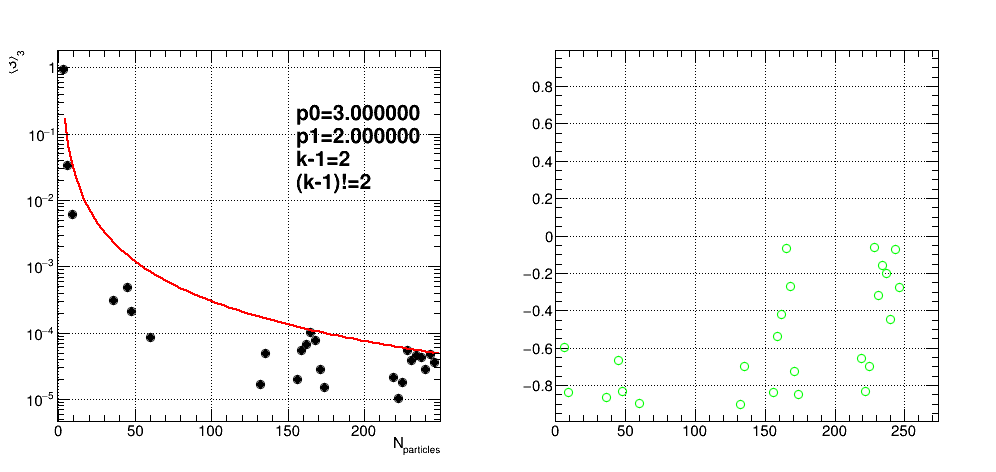
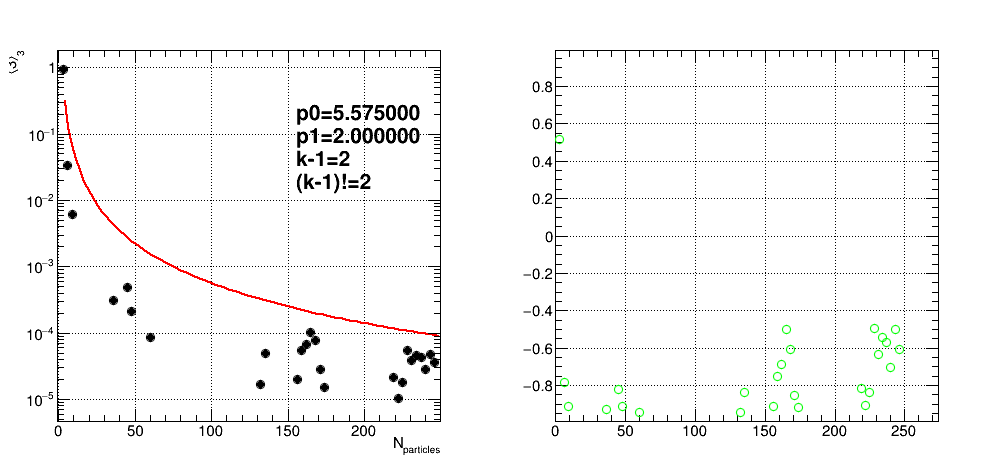
Added up to 14 p-correlators

diff --git a/RanGenX.C b/RanGenX.C
@@ -114,7 +114,7 @@ void get_corr(int nparticles, int ntuple, int harmonic, double space, int seed)
   // than 100 and adds 1 -- if more than 100, than the program stops
 
   //int stop = nparticles/ntuple;
-  //cout<<"Starting For loop over particles"<<endl;
+  cout<<"Starting For loop over particles"<<endl;
   for ( int i = 0; i < nparticles; ++i )
     {
       //double means an exact number, phi1 is the name of the double for particle 1.
@@ -134,39 +134,81 @@ void get_corr(int nparticles, int ntuple, int harmonic, double space, int seed)
       
       extra = angle.Uniform(-space,space);
       double phi3 = phi2 + increment + extra;
+      fix_ang (phi3);
       ang.push_back(phi3);
       if ( ntuple <= 3 ) continue;
 
       extra = angle.Uniform(-space,space);
       double phi4 = phi3 + increment + extra;
+      fix_ang (phi4);
       ang.push_back(phi4);
       if ( ntuple <= 4 ) continue;
 
       extra = angle.Uniform(-space,space);      
       double phi5 = phi4 + increment + extra;
+      fix_ang (phi5);
       ang.push_back(phi5);
       if ( ntuple <= 5 ) continue;
 
       extra = angle.Uniform(-space,space);
       double phi6 = phi5 + increment + extra;
+      fix_ang (phi6);
       ang.push_back(phi6);
       if ( ntuple <= 6 ) continue;
 
       extra = angle.Uniform(-space,space);
       double phi7 = phi6 + increment + extra;
+      fix_ang (phi7);
       ang.push_back(phi7);
       if ( ntuple <= 7 ) continue;
 
       extra = angle.Uniform(-space,space);
       double phi8 = phi7 + increment + extra;
+      fix_ang (phi8);
       ang.push_back(phi8);
       if ( ntuple <= 8 ) continue;
 
+      extra = angle.Uniform(-space,space);
+      double phi9 = phi8 + increment + extra;
+      fix_ang (phi9);
+      ang.push_back(phi9);
+      if ( ntuple <= 9 ) continue;
+      
+      extra = angle.Uniform(-space,space);
+      double phi10 = phi9 + increment + extra;
+      fix_ang (phi10);
+      ang.push_back(phi10);
+      if ( ntuple <= 10 ) continue;
+      
+      extra = angle.Uniform(-space,space);
+      double phi11 = phi10 + increment + extra;
+      fix_ang (phi11);
+      ang.push_back(phi11);
+      if ( ntuple <= 11 ) continue;
+      
+      extra = angle.Uniform(-space,space);
+      double phi12 = phi11 + increment + extra;
+      fix_ang (phi12);
+      ang.push_back(phi12);
+      if ( ntuple <= 12 ) continue;
+      
+      extra = angle.Uniform(-space,space);
+      double phi13 = phi12 + increment + extra;
+      fix_ang (phi13);
+      ang.push_back(phi13);
+      if ( ntuple <= 13 ) continue;
+      
+      extra = angle.Uniform(-space,space);
+      double phi14 = phi13 + increment + extra;
+      fix_ang (phi14);
+      ang.push_back(phi14);
+      if ( ntuple <= 14 ) continue;
+
 
     } // end of nparticles for loop
-  //cout<<"Done Generating Particles, doing Recursion"<<endl;
+  cout<<"Done Generating Particles, doing Recursion"<<endl;
   do_recursion(ang,harmonic);
-  //cout<<"Done with Recursion"<<endl;
+  cout<<"Done with Recursion"<<endl;
   
   return;
 
@@ -181,6 +223,7 @@ void fix_ang(double& ang)
 void do_recursion(vector<double>& ang, int harmonic)
 {
 
+  cout<<"Initializing Q vectors"<<endl;
   for(int h=0;h<maxHarmonic;h++)
     {
       for(int w=0;w<maxPower;w++)
@@ -190,13 +233,14 @@ void do_recursion(vector<double>& ang, int harmonic)
     } // end of loop over maxHarmonic
 
   int mult = ang.size();
-
+  cout<<"Getting Angles"<<endl;
   for ( int i = 0; i < mult; ++i )
     {
       //cout << ang[i] << " " ;
       for(int h=0;h<maxHarmonic;h++)
         {
           double phi = ang[i];
+	  cout<<"Calculating Q-vectors"<<endl;
           // do the summation for the Q-vectors
           for(int w=0;w<maxPower;w++)
             {
@@ -204,6 +248,7 @@ void do_recursion(vector<double>& ang, int harmonic)
             } // end of loop over powers
         } // end of loop over harmonics
     } // end of loop over ang vector
+  cout<<"Filling Histograms"<<endl;
 
   // --- from generic formulas ----------------------------------------------------------------------------
 
@@ -262,7 +307,7 @@ void do_recursion(vector<double>& ang, int harmonic)
   hmult_recursion[1][5]->Fill(mult,sevenRecursion.Im(),wSevenRecursion);
 
   //  8-p correlations
-  int harmonics_Eight_Num[8] = {harmonic,harmonic,harmonic,harmonic,-harmonic,-harmonic,-harmonic,-harmonic};
+  int harmonics_Eight_Num[8] = {harmonic,harmonic,harmonic,harmonic,-harmonic,-harmonic,-harmonic,-harmonic}; // harmonic*(1,1,1,1,-1,-1,-1,-1)
   int harmonics_Eight_Den[8] = {0,0,0,0,0,0,0,0};
   TComplex eightRecursion = Recursion(8,harmonics_Eight_Num)/Recursion(8,harmonics_Eight_Den).Re();
   //double spwEightRecursion = Recursion(8,harmonics_Eight_Den).Re();
@@ -270,13 +315,67 @@ void do_recursion(vector<double>& ang, int harmonic)
   hmult_recursion[0][6]->Fill(mult,eightRecursion.Re(),wEightRecursion);
   hmult_recursion[1][6]->Fill(mult,eightRecursion.Im(),wEightRecursion);
 
+  //  9-p correlations
+  int harmonics_Nine_Num[9] = {harmonic,harmonic,harmonic,harmonic,harmonic,-harmonic,-harmonic,-harmonic,-2*harmonic}; // harmonic*(1,1,1,1,1,-1,-1,-1,-2)
+  int harmonics_Nine_Den[9] = {0,0,0,0,0,0,0,0,0};
+  TComplex nineRecursion = Recursion(9,harmonics_Nine_Num)/Recursion(9,harmonics_Nine_Den).Re();
+  //double spwNineRecursion = Recursion(9,harmonics_Nine_Den).Re();
+  double wNineRecursion = 1.0;
+  hmult_recursion[0][7]->Fill(mult,nineRecursion.Re(),wNineRecursion);
+  hmult_recursion[1][7]->Fill(mult,nineRecursion.Im(),wNineRecursion);
+
+  //  10-p correlations
+  int harmonics_Ten_Num[10] = {harmonic,harmonic,harmonic,harmonic,harmonic,-harmonic,-harmonic,-harmonic,-harmonic,-harmonic}; // harmonic*(1,1,1,1,1,-1,-1,-1,-1,-1)
+  int harmonics_Ten_Den[10] = {0,0,0,0,0,0,0,0,0,0};
+  TComplex tenRecursion = Recursion(10,harmonics_Ten_Num)/Recursion(10,harmonics_Ten_Den).Re();
+  //double spwTenRecursion = Recursion(10,harmonics_Ten_Den).Re();
+  double wTenRecursion = 1.0;
+  hmult_recursion[0][8]->Fill(mult,tenRecursion.Re(),wTenRecursion);
+  hmult_recursion[1][8]->Fill(mult,tenRecursion.Im(),wTenRecursion);
+
+  //  11-p correlations
+  int harmonics_Eleven_Num[11] = {harmonic,harmonic,harmonic,harmonic,harmonic,harmonic,-harmonic,-harmonic,-harmonic,-harmonic,-2*harmonic}; // harmonic*(1,1,1,1,1,1,-1,-1,-1,-1,-2)
+  int harmonics_Eleven_Den[11] = {0,0,0,0,0,0,0,0,0,0,0};
+  TComplex elevenRecursion = Recursion(11,harmonics_Eleven_Num)/Recursion(11,harmonics_Eleven_Den).Re();
+  //double spwElevenRecursion = Recursion(11,harmonics_Eleven_Den).Re();
+  double wElevenRecursion = 1.0;
+  hmult_recursion[0][9]->Fill(mult,elevenRecursion.Re(),wElevenRecursion);
+  hmult_recursion[1][9]->Fill(mult,elevenRecursion.Im(),wElevenRecursion);
+
+  //  12-p correlations
+  int harmonics_Twelve_Num[12] = {harmonic,harmonic,harmonic,harmonic,harmonic,harmonic,-harmonic,-harmonic,-harmonic,-harmonic,-harmonic,-harmonic}; // harmonic*(1,1,1,1,1,1,-1,-1,-1,-1,-1,-1)
+  int harmonics_Twelve_Den[12] = {0,0,0,0,0,0,0,0,0,0,0,0};
+  TComplex twelveRecursion = Recursion(12,harmonics_Twelve_Num)/Recursion(12,harmonics_Twelve_Den).Re();
+  //double spwTwelveRecursion = Recursion(12,harmonics_Twelve_Den).Re();
+  double wTwelveRecursion = 1.0;
+  hmult_recursion[0][10]->Fill(mult,twelveRecursion.Re(),wTwelveRecursion);
+  hmult_recursion[1][10]->Fill(mult,twelveRecursion.Im(),wTwelveRecursion);
+
+  //  13-p correlations
+  int harmonics_Thirteen_Num[13] = {harmonic,harmonic,harmonic,harmonic,harmonic,harmonic,harmonic,-harmonic,-harmonic,-harmonic,-harmonic,-harmonic,-2*harmonic}; // harmonic*(1,1,1,1,1,1,1,-1,-1,-1,-1,-1,-2)
+  int harmonics_Thirteen_Den[13] = {0,0,0,0,0,0,0,0,0,0,0,0,0};
+  TComplex thirteenRecursion = Recursion(13,harmonics_Thirteen_Num)/Recursion(13,harmonics_Thirteen_Den).Re();
+  //double spwThirteenRecursion = Recursion(13,harmonics_Thirteen_Den).Re();
+  double wThirteenRecursion = 1.0;
+  hmult_recursion[0][11]->Fill(mult,thirteenRecursion.Re(),wThirteenRecursion);
+  hmult_recursion[1][11]->Fill(mult,thirteenRecursion.Im(),wThirteenRecursion);
+
+  //  14-p correlations
+  int harmonics_Fourteen_Num[14] = {harmonic,harmonic,harmonic,harmonic,harmonic,harmonic,harmonic,-harmonic,-harmonic,-harmonic,-harmonic,-harmonic,-harmonic,-harmonic}; // harmonic*(1,1,1,1,1,1,1,-1,-1,-1,-1,-1,-1,-1)
+  int harmonics_Fourteen_Den[14] = {0,0,0,0,0,0,0,0,0,0,0,0,0,0};
+  TComplex fourteenRecursion = Recursion(14,harmonics_Fourteen_Num)/Recursion(14,harmonics_Fourteen_Den).Re();
+  //double spwFourteenRecursion = Recursion(14,harmonics_Fourteen_Den).Re();
+  double wFourteenRecursion = 1.0;
+  hmult_recursion[0][12]->Fill(mult,fourteenRecursion.Re(),wFourteenRecursion);
+  hmult_recursion[1][12]->Fill(mult,fourteenRecursion.Im(),wFourteenRecursion);
 
 
+  
   // ---------------------------------------------------------------------------------------
   // ---------------------------------------------------------------------------------------
   // ---------------------------------------------------------------------------------------
 
-
+  cout<<"Filling Double Harmonic Histograms"<<endl;
 
   int d_harmonic = 2*harmonic;
   
@@ -348,5 +447,5 @@ void do_recursion(vector<double>& ang, int harmonic)
   //cout << fourd_Recursion.Re() << endl;
   //cout << sixd_Recursion.Re() << endl;
   //cout << eightd_Recursion.Re() << endl;
-
+  cout<<"Finished do_recursion"<<endl;
 } // end do_recursion functions

diff --git a/do_rangenx.C b/do_rangenx.C
@@ -45,6 +45,12 @@ int main(int argc, char *argv[])
   execute(nevents,250,6,2,space,sequence,seed); // nevents, max 250 tracks, 6-p correlation, 2nd harmonic, sequence number, seed
   execute(nevents,250,7,2,space,sequence,seed); // nevents, max 250 tracks, 7-p correlation, 2nd harmonic, sequence number, seed
   execute(nevents,250,8,2,space,sequence,seed); // nevents, max 250 tracks, 8-p correlation, 2nd harmonic, sequence number, seed
+  execute(nevents,250,9,2,space,sequence,seed); // nevents, max 250 tracks, 9-p correlation, 2nd harmonic, sequence number, seed
+  execute(nevents,250,10,2,space,sequence,seed); // nevents, max 250 tracks, 10-p correlation, 2nd harmonic, sequence number, seed
+  execute(nevents,250,11,2,space,sequence,seed); // nevents, max 250 tracks, 11-p correlation, 2nd harmonic, sequence number, seed
+  execute(nevents,250,12,2,space,sequence,seed); // nevents, max 250 tracks, 12-p correlation, 2nd harmonic, sequence number, seed
+  execute(nevents,250,13,2,space,sequence,seed); // nevents, max 250 tracks, 13-p correlation, 2nd harmonic, sequence number, seed
+  execute(nevents,250,14,2,space,sequence,seed); // nevents, max 250 tracks, 14-p correlation, 2nd harmonic, sequence number, seed
 
   execute(nevents,250,2,3,space,sequence,seed); // nevents, max 250 tracks, 2-p correlation, 3rd harmonic, sequence number, seed
   execute(nevents,250,3,3,space,sequence,seed); // nevents, max 250 tracks, 3-p correlation, 3rd harmonic, sequence number, seed
@@ -53,6 +59,12 @@ int main(int argc, char *argv[])
   execute(nevents,250,6,3,space,sequence,seed); // nevents, max 250 tracks, 6-p correlation, 3rd harmonic, sequence number, seed
   execute(nevents,250,7,3,space,sequence,seed); // nevents, max 250 tracks, 7-p correlation, 3rd harmonic, sequence number, seed
   execute(nevents,250,8,3,space,sequence,seed); // nevents, max 250 tracks, 8-p correlation, 3rd harmonic, sequence number, seed
+  execute(nevents,250,9,3,space,sequence,seed); // nevents, max 250 tracks, 9-p correlation, 3rd harmonic, sequence number, seed
+  execute(nevents,250,10,3,space,sequence,seed); // nevents, max 250 tracks, 10-p correlation, 3rd harmonic, sequence number, seed
+  execute(nevents,250,11,3,space,sequence,seed); // nevents, max 250 tracks, 11-p correlation, 3rd harmonic, sequence number, seed
+  execute(nevents,250,12,3,space,sequence,seed); // nevents, max 250 tracks, 12-p correlation, 3rd harmonic, sequence number, seed
+  execute(nevents,250,13,3,space,sequence,seed); // nevents, max 250 tracks, 13-p correlation, 3rd harmonic, sequence number, seed
+  execute(nevents,250,14,3,space,sequence,seed); // nevents, max 250 tracks, 14-p correlation, 3rd harmonic, sequence number, seed
 
   return 0;
 

diff --git a/OHist.C b/OHist.C
@@ -9,13 +9,19 @@ void OHist(){
   callHK(2,6);
   callHK(2,7);
   callHK(2,8);
-  callHK(3,2);
-  callHK(3,3);
-  callHK(3,4);
-  callHK(3,5);
-  callHK(3,6);
-  callHK(3,7);
-  callHK(3,8);
+  callHK(2,9);
+  callHK(2,10);
+  callHK(2,11);
+  callHK(2,12);
+  callHK(2,13);
+  callHK(2,14);
+  //callHK(3,2);
+  //callHK(3,3);
+  //callHK(3,4);
+  //callHK(3,5);
+  //callHK(3,6);
+  //callHK(3,7);
+  //callHK(3,8);
   fout.close();
 }
 void callHK(int H,int K){
@@ -60,7 +66,13 @@ void callHK(int H,int K){
   if(K==6)fun.FixParameter(0,700.0);
   if(K==7)fun.FixParameter(0,10000.0);
   if(K==8)fun.FixParameter(0,30000.0);
-  //if(K==3)fun.SetParLimits(1,K-2,K);
+  // if(K==3)fun.FixParameter(0,5.575);
+  // if(K==4)fun.FixParameter(0,31.08);
+  // if(K==5)fun.FixParameter(0,173.3);
+  // if(K==6)fun.FixParameter(0,966.0);
+  // if(K==7)fun.FixParameter(0,5385);
+  // if(K==8)fun.FixParameter(0,30022);
+  // if(K==3)fun.SetParLimits(1,K-2,K);
   //fun.SetParameter(1,K-1);
   histogram->Fit("fun","R");
   fout<<K<<" "<<fun.GetParameter(0)<<endl;

diff --git a/Recursion.C b/Recursion.C
@@ -1,5 +1,5 @@
-const int maxCorrelator = 12;
-const int maxHarmonic = 20;
+const int maxCorrelator = 14;
+const int maxHarmonic = 21;
 const int maxPower = 9;
 TComplex Qvector[maxHarmonic][maxPower];
 
